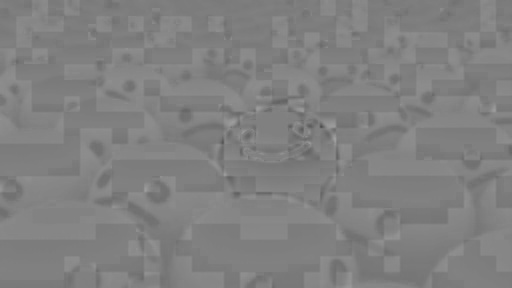
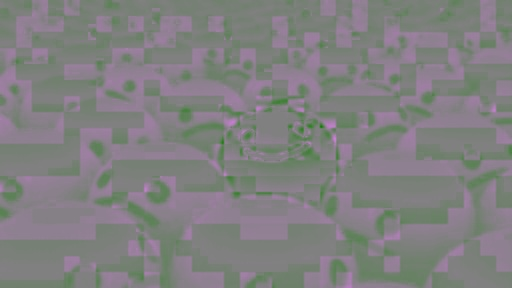
Fixed entropy and added RGB distmap

diff --git a/TP1/mainTp1.cpp b/TP1/mainTp1.cpp
@@ -106,9 +106,6 @@ void computeHistogram(const Mat& inputComponent, Mat& myHist)
 
 //=======================================================================================
 // computeEntropy
-//
-// Help found on : http://stackoverflow.com/questions/24930134/entropy-for-a-gray-image-in-opencv
-//
 //=======================================================================================
 float computeEntropy(const Mat& inputComponent)
 {
@@ -119,12 +116,14 @@ float computeEntropy(const Mat& inputComponent)
 	// Stats of Image
 	myHist /= inputComponent.total();
 
-	//Computed Entropy
-    Mat logP;
-    cv::log(myHist,logP);
-    float entropy = -1*sum(myHist.mul(logP))[0];
+    float entropy = 0;
+    for(int i = 0; i < myHist.rows; i++) {
+        if(myHist.at<float>(i) != 0) {
+            entropy += myHist.at<float>(i) * log2(myHist.at<float>(i));            
+        }
+    }
 
-    return entropy;
+    return -1 * entropy;
 
 }
 
@@ -230,6 +229,14 @@ void BGRtoYCrCb(const Mat & imgSrc, Mat & imgOut)
 }
 
 //=======================================================================================
+// convert a image from YCrCb to BGR
+//=======================================================================================
+void YCrCbtoBGR(const Mat & imgSrc, Mat & imgOut)
+{
+	cvtColor(imgSrc, imgOut, CV_YCrCb2BGR);
+}
+
+//=======================================================================================
 // recupération d'image
 //=======================================================================================
 std::vector<Mat>  recupImage(int argc, char** argv)
@@ -255,7 +262,7 @@ std::vector<Mat>  recupImage(int argc, char** argv)
 //=======================================================================================
 //=======================================================================================
 int main(int argc, char** argv){
-	  
+
 	if (argc < 2){
 	    std::cout << "No image data... At least one argument is required! \n";
 	    return -1;
@@ -291,7 +298,7 @@ int main(int argc, char** argv){
 	{
 
 		std::cout << "Image " << i << "\n" << std::endl;
-		
+
 		if(i != 0)
 		{
 			std::cout << "EQM : " << eqm(imagesSplit[0][0],imagesSplit[i][0]) << std::endl;
@@ -309,7 +316,9 @@ int main(int argc, char** argv){
 			std::cout<< "#### Distortion Map ####" << std::endl;
 			Mat distoMap;
 			distortionMap(imagesSplit[0], imagesSplit[i], distoMap);
-			imwrite ( "ImageRes/disto_map_"+ toString(i)+".jpg" , distoMap);
+            Mat rgbDistoMap;
+            YCrCbtoBGR(distoMap, rgbDistoMap);
+			imwrite ( "ImageRes/disto_map_"+ toString(i)+".jpg" , rgbDistoMap);
 			distoMap = imread("ImageRes/disto_map_"+ toString(i)+".jpg", CV_LOAD_IMAGE_COLOR);
 
 			// Mettre l'image de distortion en YCrCb et la split pour l'utiliser avec l'entropy et l'histogramme
@@ -336,7 +345,7 @@ int main(int argc, char** argv){
 
 		waitKey();
 	}
-	
-	
+
+
   return 0;
 }

diff --git a/TP2/mainTp2.cpp b/TP2/mainTp2.cpp
@@ -232,7 +232,7 @@ void BGRtoYCrCb(const Mat & imgSrc, Mat & imgOut)
 //=======================================================================================
 // recupération d'image
 //=======================================================================================
-std::vector<Mat>  recupImage(int argc, char** argv)
+std::vector<Mat> recupImage(int argc, char** argv)
 {
 	std::vector<Mat> images;
 	for(int i = 1; i < argc ; i++)
@@ -248,6 +248,14 @@ std::vector<Mat>  recupImage(int argc, char** argv)
 	return images;
 }
 
+//=======================================================================================
+// transformée en cosinus
+//=======================================================================================
+void dct(const Mat & imgIn, const Mat & imgOut)
+{
+    
+}
+
 
 //=======================================================================================
 //=======================================================================================
@@ -255,7 +263,7 @@ std::vector<Mat>  recupImage(int argc, char** argv)
 //=======================================================================================
 //=======================================================================================
 int main(int argc, char** argv){
-	  
+
 	if (argc < 2){
 	    std::cout << "No image data... At least one argument is required! \n";
 	    return -1;
@@ -291,7 +299,7 @@ int main(int argc, char** argv){
 	{
 
 		std::cout << "Image " << i << "\n" << std::endl;
-		
+
 		if(i != 0)
 		{
 			std::cout << "EQM : " << eqm(imagesSplit[0][0],imagesSplit[i][0]) << std::endl;
@@ -336,7 +344,7 @@ int main(int argc, char** argv){
 
 		waitKey();
 	}
-	
-	
+
+
   return 0;
 }
